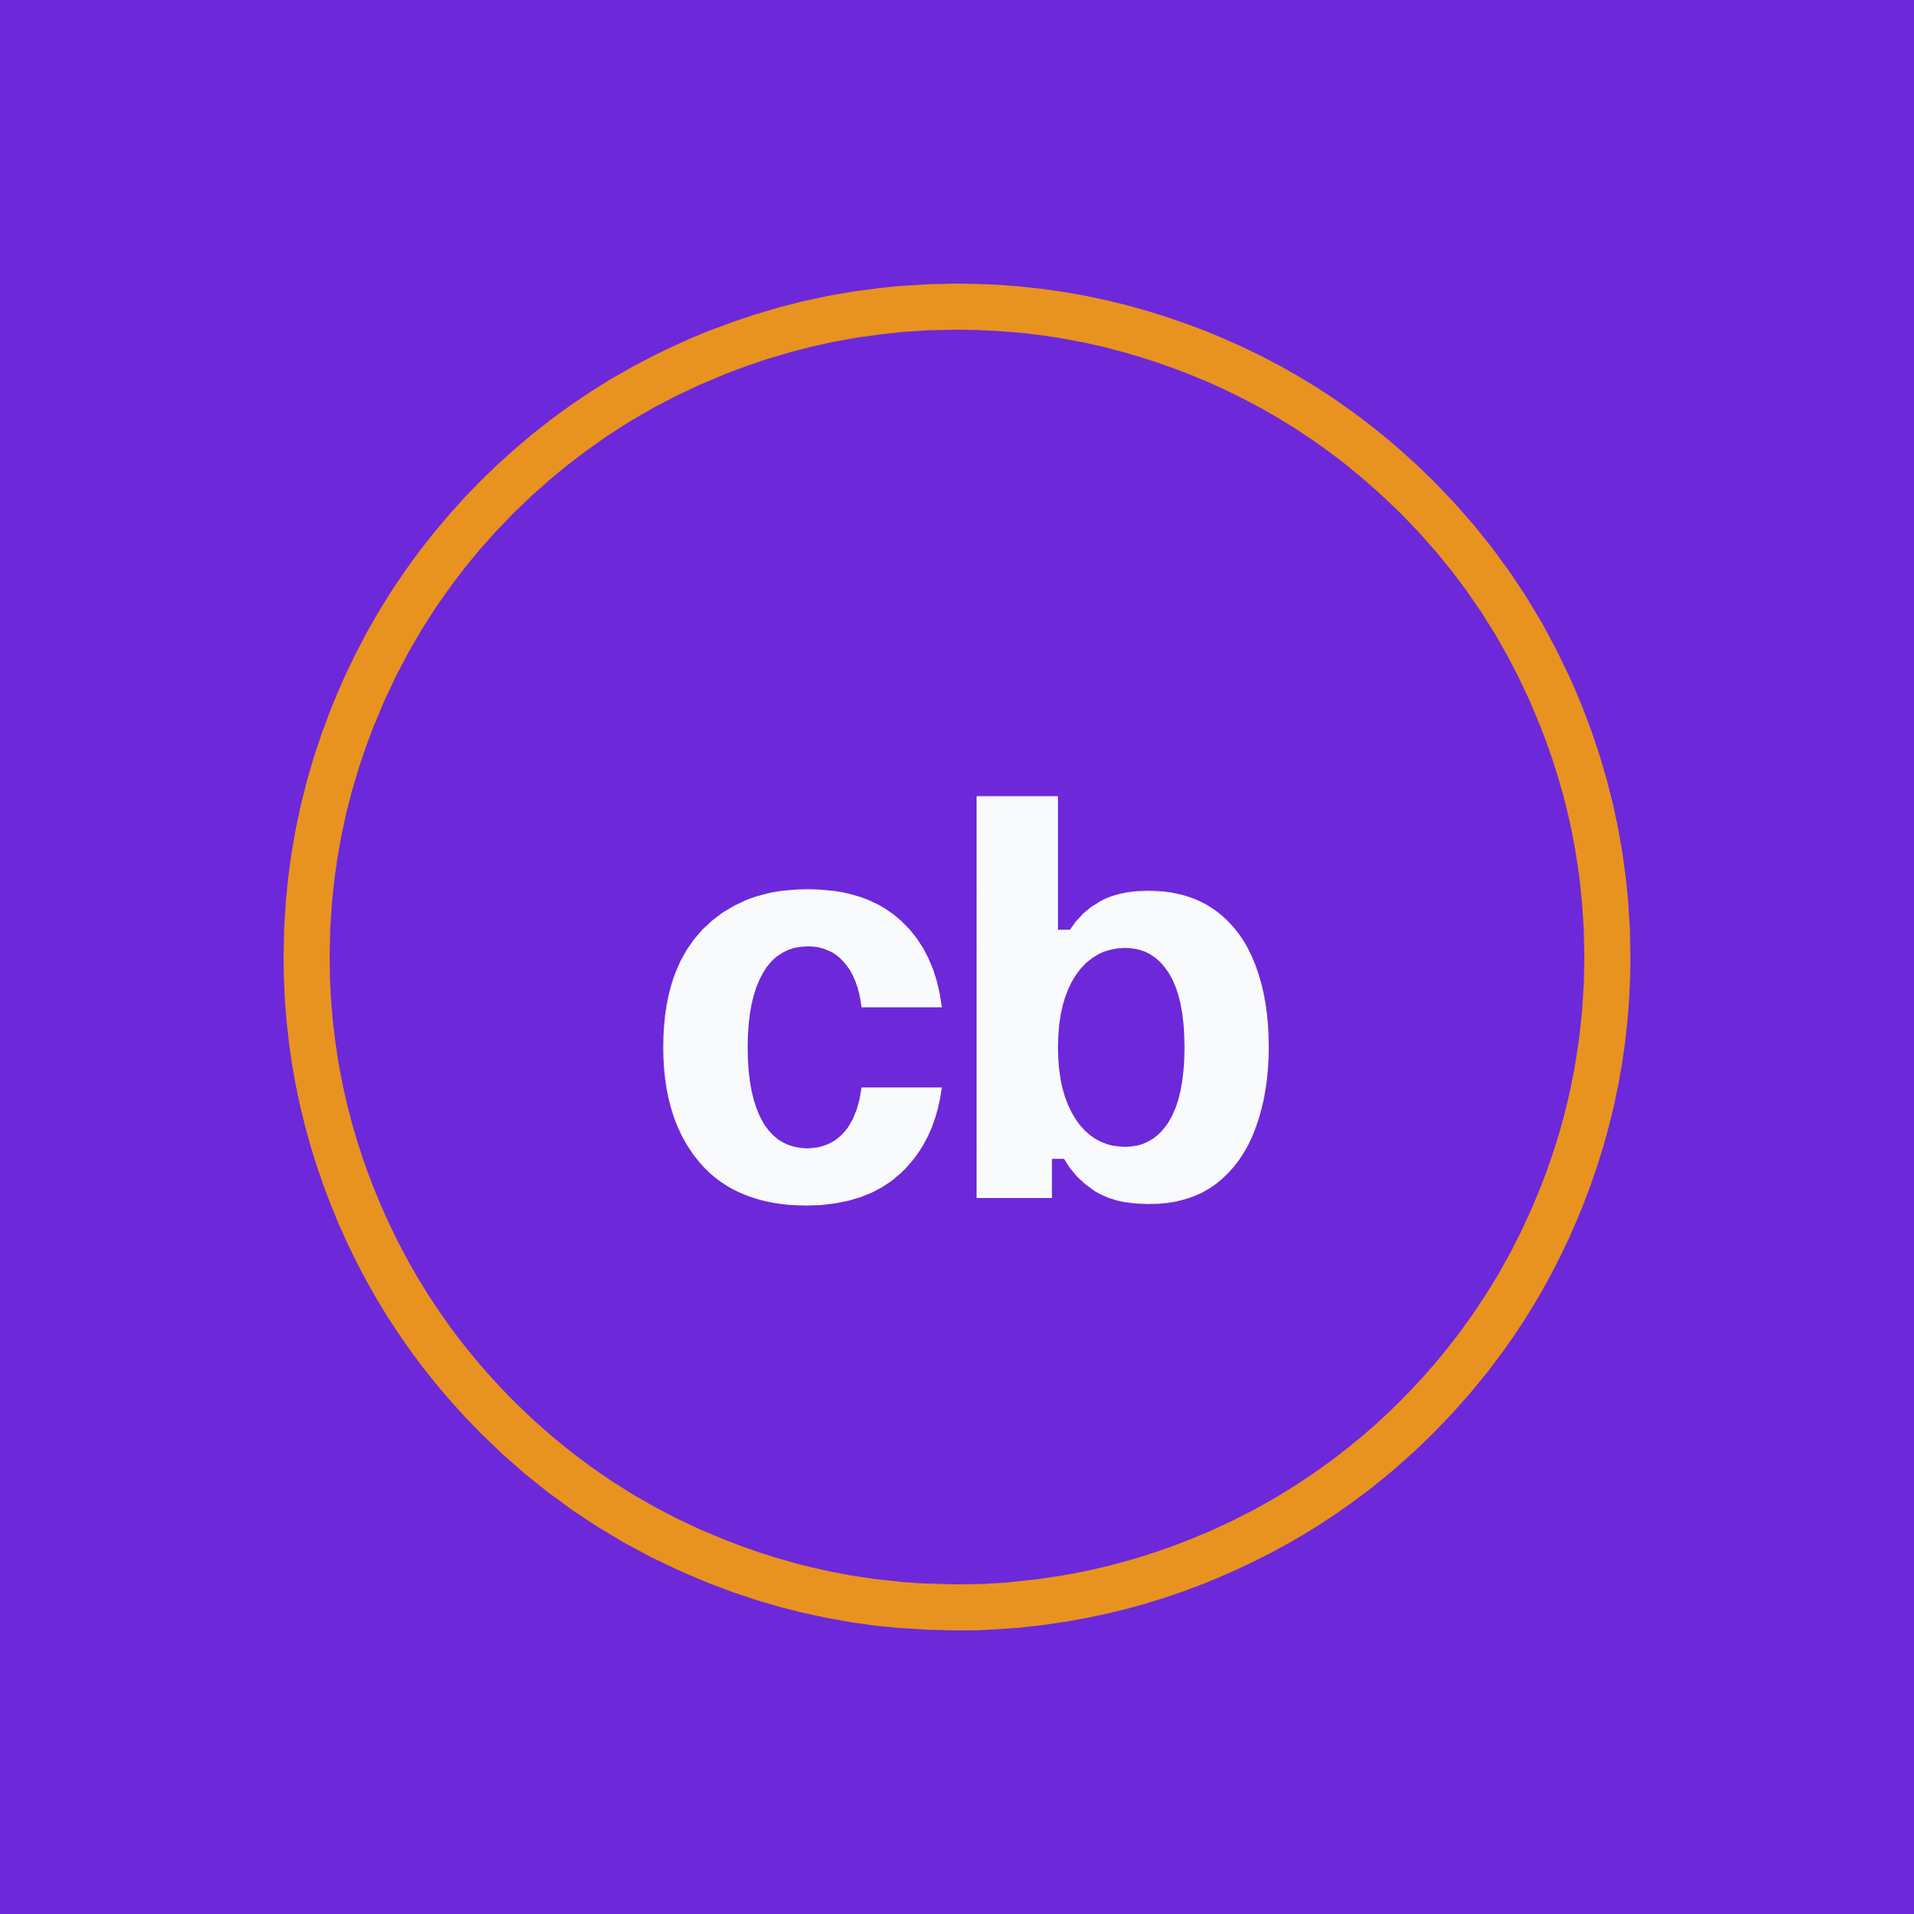
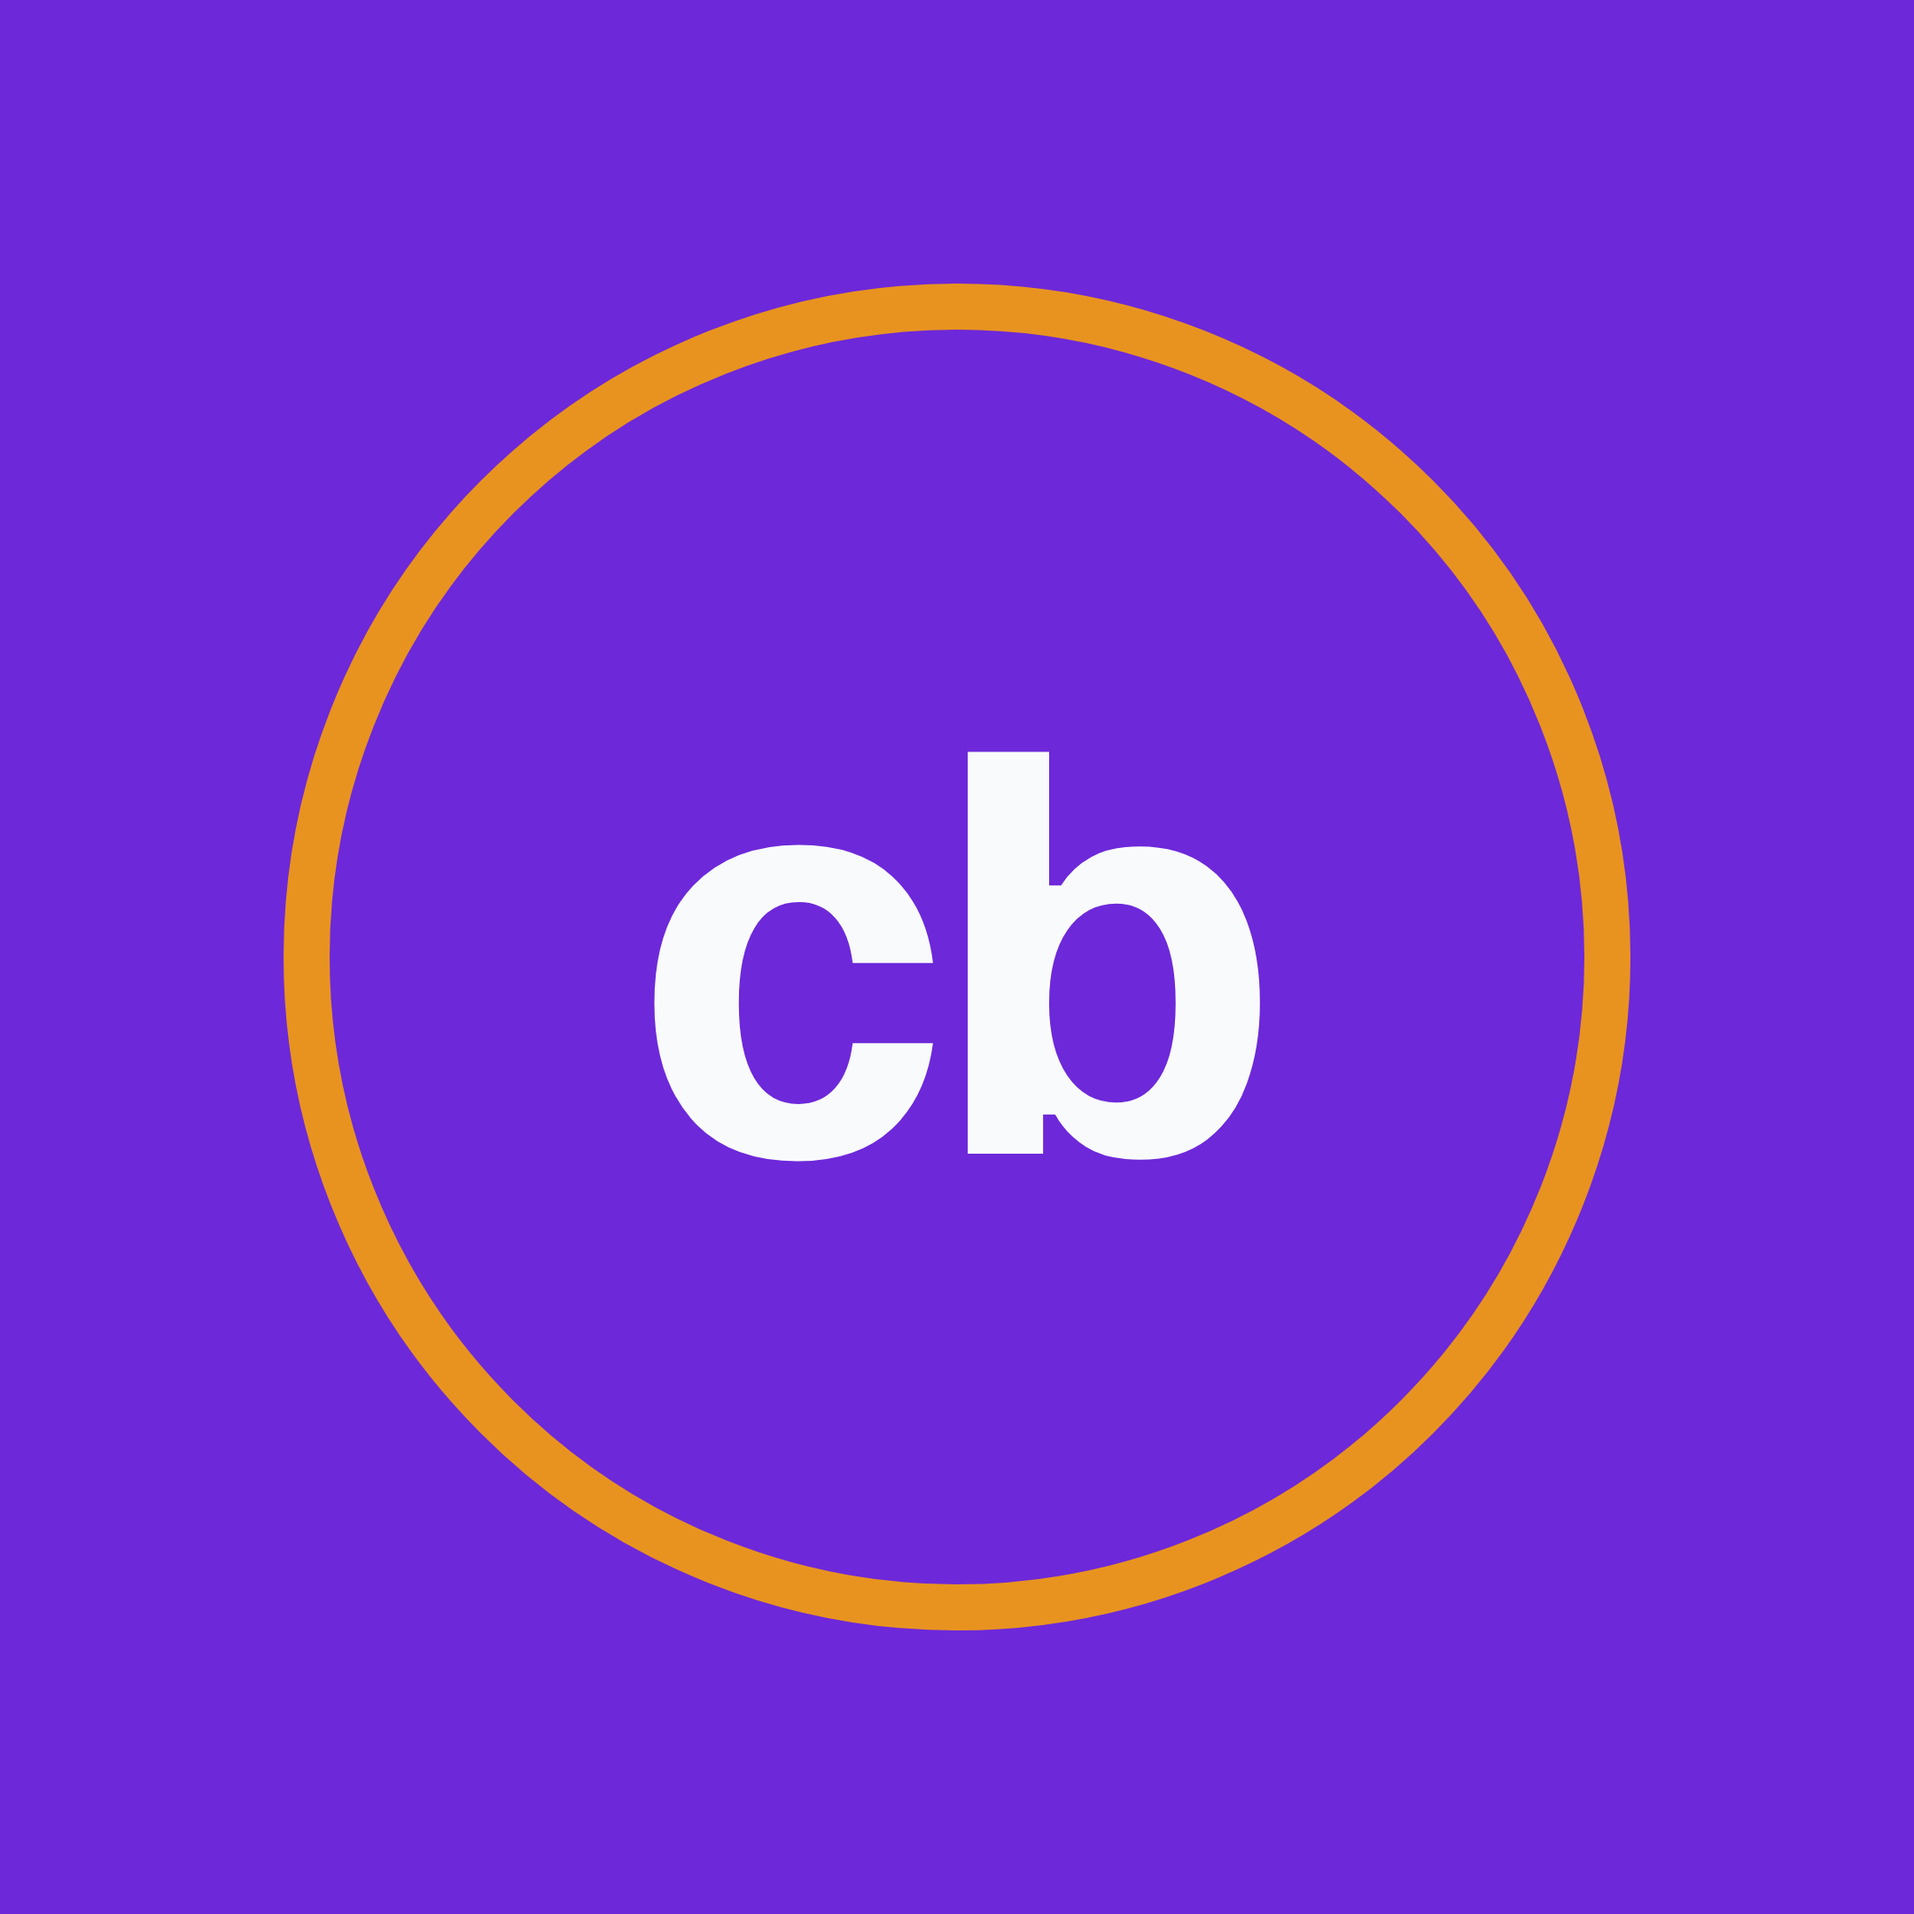
Centraliza o "cb" no anel da foto de perfil (kit de artes)
O flex centralizava a caixa de linha do texto, não a tinta do glifo -
como "cb" não tem descendente, sobrava espaço embaixo (reservado pra
letras como "g"/"p") e o monograma ficava visualmente baixo e
levemente à direita do anel. Ajustado com line-height:1 + transform
calibrado por medição de pixel real até a tinta ficar centralizada.

Changed region(s): [[0.3412, 0.3722, 0.6824, 0.6514]]

diff --git a/marketing/instagram/gerar_artes_marca.py b/marketing/instagram/gerar_artes_marca.py
@@ -81,10 +81,14 @@ def render(body_html, filename, width=1080, height=1080):
 
 
 # ---------- 1. Foto de perfil - "cb" sobre roxo com anel âmbar (paleta mesclada) ----------
+# O flex centraliza a CAIXA da linha de texto, não a tinta do glifo - como "cb" não tem
+# descendente, sobra espaço embaixo (reservado pra letras como "g"/"p") e o "cb" fica
+# visualmente baixo/deslocado. line-height:1 reduz a caixa, e o transform compensa o
+# resto (medido em pixel real via screenshot até a tinta ficar centralizada no anel).
 render(f"""
 <div class="canvas" style="background:{COLORS['brand']}; align-items:center; justify-content:center;">
     <div style="position:absolute; width:760px; height:760px; border-radius:50%; border:26px solid {COLORS['highlight']}; opacity:0.9;"></div>
-    <div style="font-size:340px; font-weight:700; letter-spacing:-0.03em; color:{COLORS['paper']};">cb</div>
+    <div style="font-size:340px; line-height:1; font-weight:700; letter-spacing:-0.03em; color:{COLORS['paper']}; transform:translate(-5px, -25px);">cb</div>
 </div>
 """, "01-perfil-cb-roxo-ambar.png")
 
